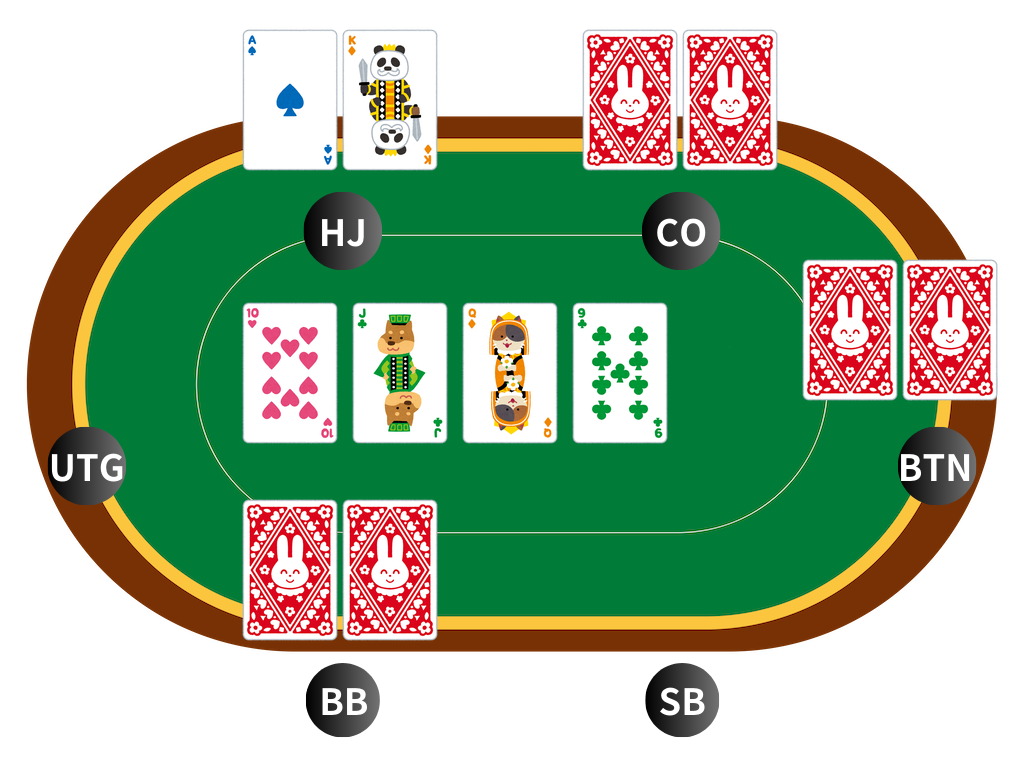
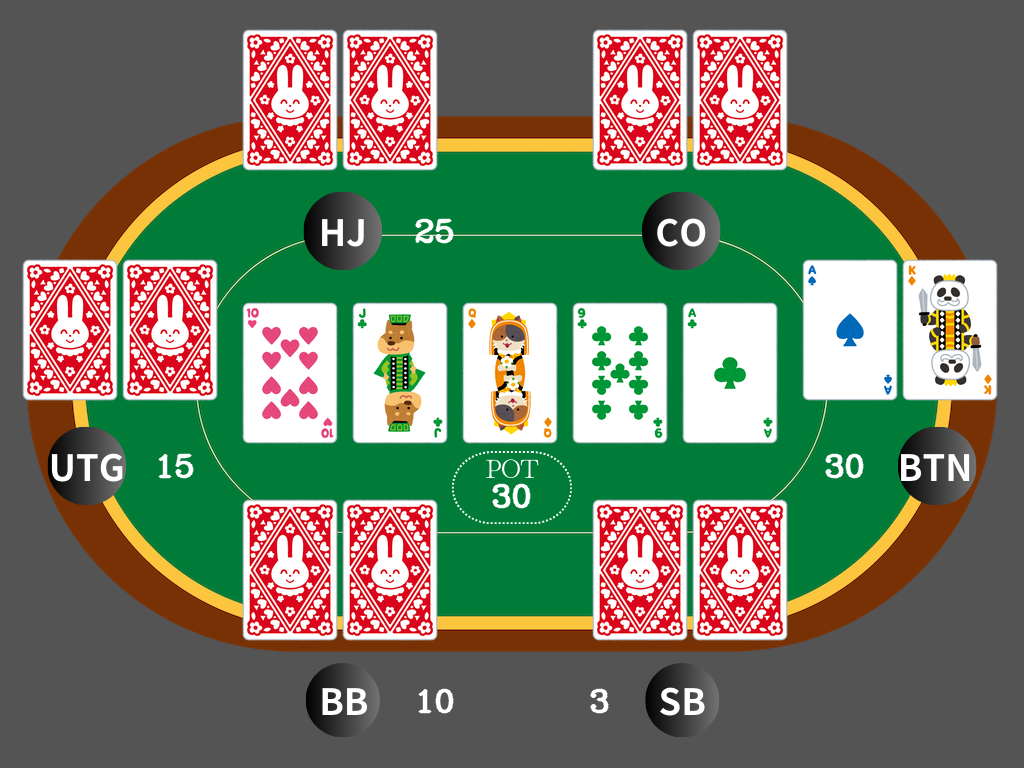
display pot size and bet size

diff --git a/main.py b/main.py
@@ -10,14 +10,27 @@ class PokerTableGenerator:
     CARD_WIDTH = 100
     CARD_HEIGHT = 147
 
+    # ポットサイズの中央座標
+    POT_SIZE_COORDS = (512, 495)
+
     # ポジションの座標マッピング (x, y) - 1024x732のテーブル画像に最適化
     POSITION_COORDS = {
-        'sb': (680, 570),   # スモールブラインド
+        'sb': (690, 570),   # スモールブラインド
         'bb': (340, 570),   # ビッグブラインド
         'utg': (120, 330),  # アンダーザガン
         'hj': (340, 100),   # ハイジャック
-        'co': (680, 100),   # カットオフ
+        'co': (690, 100),   # カットオフ
         'btn': (900, 330)   # ボタン
+    }
+
+    # ベットの座標マッピング
+    BET_COORDS = {
+        'sb': (590, 700),   # スモールブラインド
+        'bb': (435, 700),   # ビッグブラインド
+        'utg': (175, 465),  # アンダーザガン
+        'hj': (435, 230),    # ハイジャック
+        'co': (590, 230),    # カットオフ
+        'btn': (845, 465)   # ボタン
     }
 
     # コミュニティカードのポジション
@@ -131,7 +144,7 @@ class PokerTableGenerator:
                 x, y = self.COMMUNITY_COORDS[i]
                 self.table_img = self.overlay_image(self.table_img, card_img, x, y)
 
-    def place_hero_cards(self, position, hero_cards=None):
+    def place_cards(self, position, hero_cards=None):
         """プレイヤーの手札をポジションに合わせて配置"""
 
         # ポジションの座標を取得
@@ -159,28 +172,100 @@ class PokerTableGenerator:
                 card_img = self.get_card_image(card_code)
                 self.table_img = self.overlay_image(self.table_img, card_img, x, y)
 
-    def generate_table_image(self, hero_position, hero_cards, board_cards, villan_positions, output_path=None):
+    def draw_pot_size(self, pot_size):
+        """ポットサイズを表示"""
+        text = f"{pot_size}"
+        font = cv2.FONT_HERSHEY_COMPLEX
+        font_scale = 1.0
+        thickness = 2
+        color = (255, 255, 255, 255)
+        thickness = 2
+        (text_width, text_height), _ = cv2.getTextSize(text, font, font_scale, thickness)
+
+        x = self.POT_SIZE_COORDS[0] - text_width // 2
+        y = self.POT_SIZE_COORDS[1] + text_height // 2
+
+        org = (x, y)
+        cv2.putText(self.table_img, text, org, font, font_scale, color, thickness, cv2.LINE_AA)
+
+    def draw_bet_size(self, position, bet_size):
+        """ベットサイズを表示"""
+        text = f"{bet_size}"
+        font = cv2.FONT_HERSHEY_COMPLEX
+        font_scale = 1.0
+        thickness = 2
+        color = (255, 255, 255, 255)
+        thickness = 2
+        (text_width, text_height), _ = cv2.getTextSize(text, font, font_scale, thickness)
+
+        x, y = self.BET_COORDS[position.lower()]
+        x -= text_width // 2
+        y += text_height // 2
+
+        org = (x, y)
+        cv2.putText(self.table_img, text, org, font, font_scale, color, thickness, cv2.LINE_AA)
+
+    # def generate_table_image(self, hero_position, hero_cards, board_cards, villan_positions, pot_size, output_path):
+    #     """ポーカーテーブル画像を生成"""
+    #     # テーブル画像をリセット
+    #     self.table_img = self.load_image(self.table_path)
+
+    #     # ボードカードを配置
+    #     self.place_board_cards(board_cards)
+
+    #     # プレイヤーの手札を配置
+    #     self.place_cards(hero_position, hero_cards)
+
+    #     # Villainの手札を配置
+    #     for position in villan_positions:
+    #         self.place_cards(position)
+
+    #     if pot_size:
+    #         # ポットサイズを表示
+    #         self.draw_pot_size(pot_size)
+
+    #     # 画像を保存
+    #     try:
+    #         cv2.imwrite(output_path, self.table_img)
+    #         print(f"画像を保存しました: {output_path}")
+    #     except Exception as e:
+    #         print(f"画像保存エラー: {str(e)}")
+
+    #     return self.table_img
+    def generate_table_image(self, game_state, output_path):
         """ポーカーテーブル画像を生成"""
         # テーブル画像をリセット
         self.table_img = self.load_image(self.table_path)
 
         # ボードカードを配置
-        self.place_board_cards(board_cards)
+        self.place_board_cards(game_state['board'])
 
         # プレイヤーの手札を配置
-        self.place_hero_cards(hero_position, hero_cards)
+        self.place_cards(game_state['hero']['position'], game_state['hero']['cards'])
 
         # Villainの手札を配置
-        for position in villan_positions:
-            self.place_hero_cards(position)
+        for position, villain in game_state['villains'].items():
+            self.place_cards(position)
+
+        # ベットサイズを表示
+        for position, villain in game_state['villains'].items():
+            if villain and 'bet' in villain and villain['bet'] is not None:
+                self.draw_bet_size(position, villain['bet'])
+
+        # ヒーローのベットサイズを表示
+        if 'bet' in game_state['hero'] and game_state['hero']['bet'] is not None:
+            self.draw_bet_size(game_state['hero']['position'], game_state['hero']['bet'])
+
+        # ポットサイズを表示
+        if game_state['pot']:
+            self.draw_pot_size(game_state['pot'])
 
         # 画像を保存
-        if output_path:
-            try:
-                cv2.imwrite(output_path, self.table_img)
-                print(f"画像を保存しました: {output_path}")
-            except Exception as e:
-                print(f"画像保存エラー: {str(e)}")
+        try:
+            cv2.imwrite(output_path, self.table_img)
+            print(f"画像を保存しました: {output_path}")
+        except Exception as e:
+            print(f"画像保存エラー: {str(e)}")
 
         return self.table_img
 
@@ -188,14 +273,32 @@ class PokerTableGenerator:
 # 使用例
 if __name__ == "__main__":
     # 入力パラメータ
-    hero_position = "hj"  # ヒーローのポジション
-    hero_cards = ["As", "Kd"]  # ヒーローの手札
-    board_cards = ["Th", "Jc", "Qd", "9c"]  # ボードのカード
-    villain_positions = ["co", "btn", "bb"]  # 複数のVillainのポジション
+    # hero_position = "btn"  # ヒーローのポジション
+    # hero_cards = ["As", "Kd"]  # ヒーローの手札
+    # board_cards = ["Th", "Jc", "Qd", "9c", "Ac"]  # ボードのカード
+    # villain_positions = ["sb", "bb", "utg", "hj", "co"]  # 複数のVillainのポジション
+    # pot_size = 100  # ポットサイズ
+    game_state = {
+        'hero': {
+            'position': 'btn',
+            'cards': ['As', 'Kd'],
+            'bet': 30
+        },
+        'villains': {
+            'sb': {'bet': 3},
+            'bb': {'bet': 10},
+            'utg': {'bet': 15},
+            'hj': {'bet': 25},
+            'co': None
+        },
+        'board': ['Th', 'Jc', 'Qd', '9c', 'Ac'],
+        'pot': 30
+    }
 
     # 出力ファイルパス
     output_path = "poker_table_output.png"
 
     # ポーカーテーブル画像を生成
     generator = PokerTableGenerator()
-    generator.generate_table_image(hero_position, hero_cards, board_cards, villain_positions, output_path)
+    # generator.generate_table_image(hero_position, hero_cards, board_cards, villain_positions, pot_size, output_path)
+    generator.generate_table_image(game_state, output_path)
